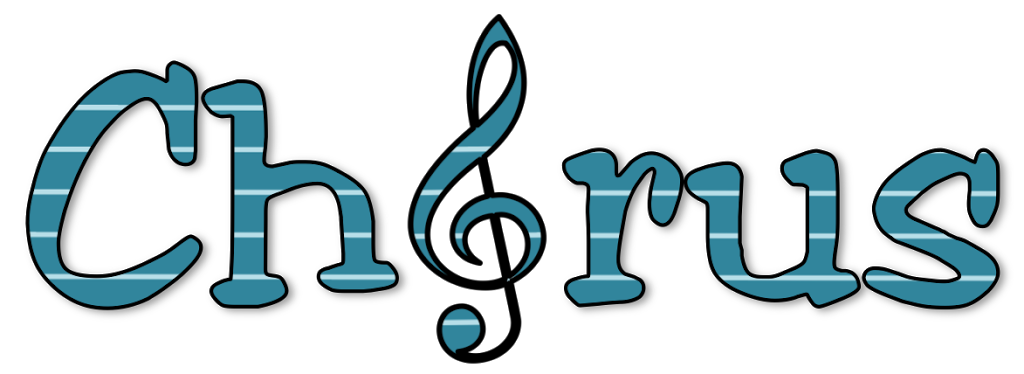
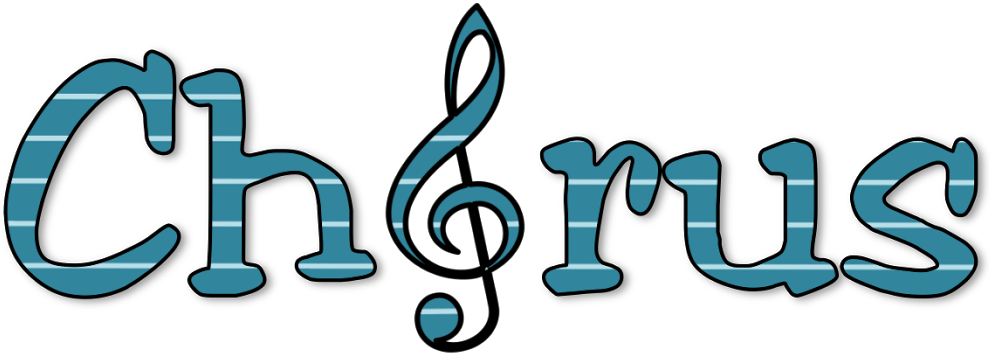
put chorus image below chorus text. scaled size of images to 30%

Changed region(s): [[0.0, 0.0, 1.0, 1.0]]

diff --git a/my_old_kentucky_home/index.html b/my_old_kentucky_home/index.html
@@ -95,7 +95,7 @@
 	// displays current line of song on the page
 	function display(text,chorus) {
 		if (chorus) { // if the chorus is playing
-			theElem.innerHTML = "<img src='chorus.png'>" + "<h2>" + text + " </h1>";
+			theElem.innerHTML = "<h2>" + text + " </h2> <img src='chorus.png'>";
 		} 
 
 		else { // if the chorus is not playing

diff --git a/my_old_kentucky_home/style.css b/my_old_kentucky_home/style.css
@@ -8,6 +8,7 @@ body {
 	color: #FFD608;
 	font-family: Georgia, Times, 'Times New Roman', serif;
 	text-align: center;
+	font-size: 50px;
 }
 
 video {
@@ -19,4 +20,9 @@ video {
 	color: #FFFFFF;
 	font-family: Georgia, Times, 'Times New Roman', serif;
 	text-align: center;
+}
+
+img {
+	height: 30%;
+	width: 30%;
 }
